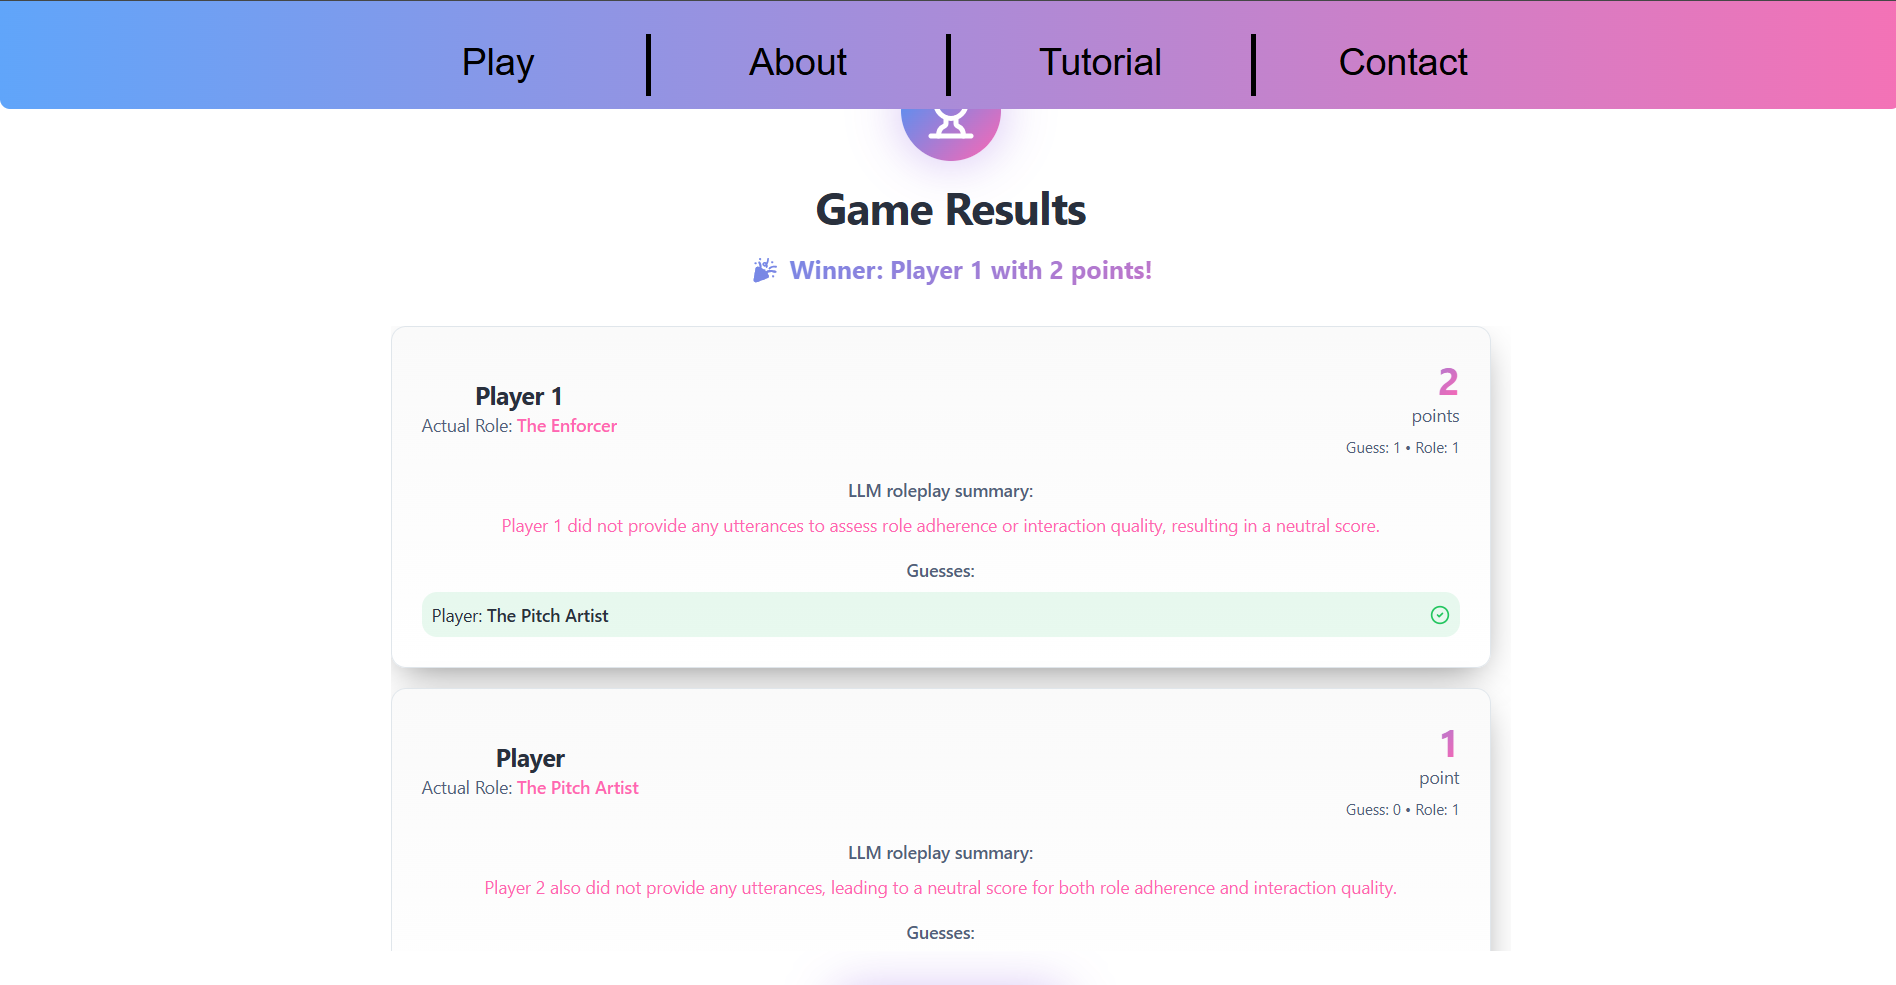
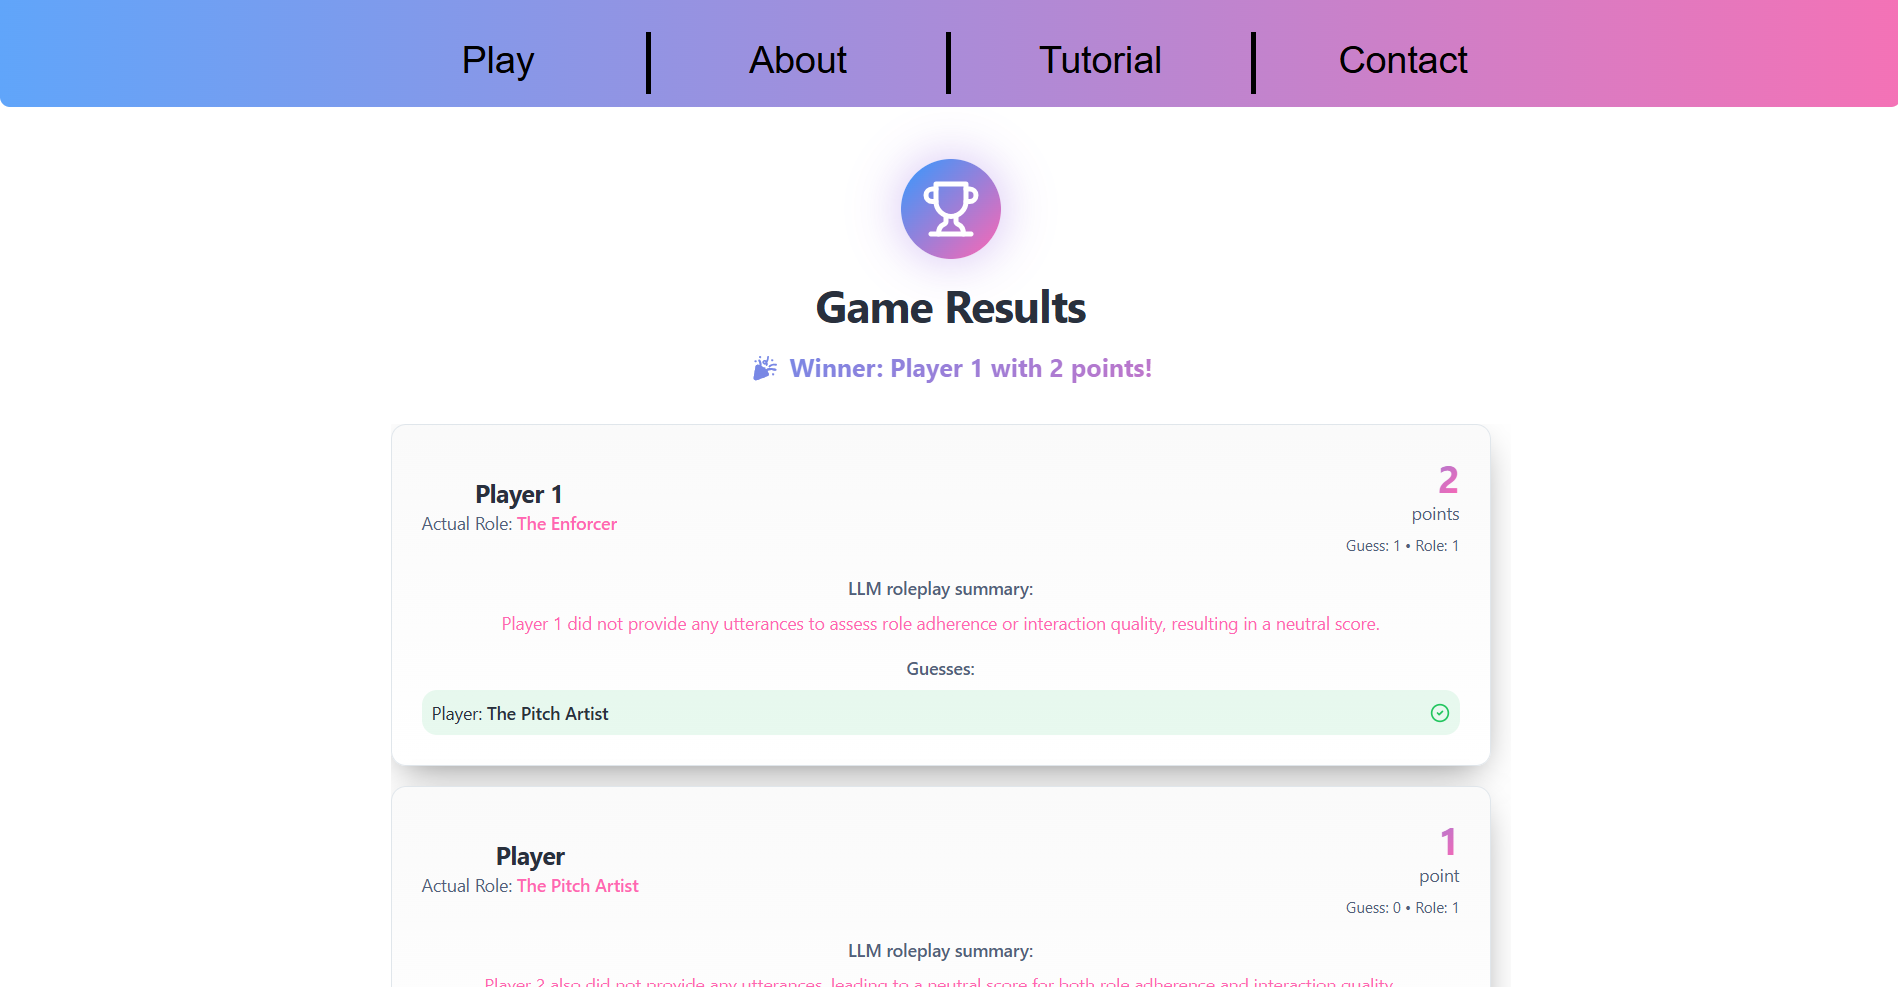
Minor Adjustments and More added images

diff --git a/src/pages/AboutPage.jsx b/src/pages/AboutPage.jsx
@@ -12,6 +12,7 @@ import { FontAwesomeIcon } from "@fortawesome/react-fontawesome";
 import { faChevronDown } from "@fortawesome/free-solid-svg-icons";
 
 import homepageImage from "../images/homepage.png";
+import assetmanagerImage from "../images/assetmanager.png";
 import createlobbyImage from "../images/createlobby.png";
 import hostlobbyImage from "../images/hostlobby.png";
 import lobbysettingsImage from "../images/lobbysettings.png";
@@ -22,6 +23,8 @@ import rolerevealImage from "../images/rolereveal.png";
 import roleplayphaseImage from "../images/roleplayphase.png";
 import roleplayassetsImage from "../images/roleplayassets.png";
 import roleplayinfoImage from "../images/roleplayinfo.png";
+import roleguessImage from "../images/roleguess.png";
+import resultsImage from "../images/finalresults.png";
 
 export default function About() {
       const [selectedRole, setSelectedRole] = useState({
@@ -526,6 +529,8 @@ export default function About() {
                               {HOW_STEPS[selectedHowStep]}
                           </h2>
 
+                          <h3 style={{ textAlign: "center" }}> Navigation </h3>
+
                           <p className="text-muted-foreground" style={{ marginBottom: "20px" }}>
                               This is the homepage for the web app. Here you are able to easily navigate to all important features and information. At the top of the page, there is a banner
                               that can be used to see supplementaty information and return to this home page if needed:
@@ -545,6 +550,14 @@ export default function About() {
 
                           <img
                               src={homepageImage}
+                              alt="Homepage"
+                              style={{ width: "100%", borderRadius: "10px" }}
+                          />
+
+                          <h3 style={{ textAlign: "center" }}> Asset Manager </h3>
+
+                          <img
+                              src={assetmanagerImage}
                               alt="Homepage"
                               style={{ width: "100%", borderRadius: "10px" }}
                           />
@@ -737,8 +750,6 @@ export default function About() {
                               alt="Homepage"
                               style={{ width: "100%", borderRadius: "10px" }}
                           />
-
-                         
                       </>
                   )}
 
@@ -748,9 +759,21 @@ export default function About() {
                               {HOW_STEPS[selectedHowStep]}
                           </h2>
 
-                          <h3 style={{ textAlign: "center" }}> Role Selection </h3>
+                          <h3 style={{ textAlign: "center" }}> Role Guessing </h3>
 
+                          <img
+                              src={roleguessImage}
+                              alt="Homepage"
+                              style={{ width: "100%", borderRadius: "10px" }}
+                          />
 
+                          <h3 style={{ textAlign: "center" }}> Final Results </h3>
+
+                          <img
+                              src={resultsImage}
+                              alt="Homepage"
+                              style={{ width: "100%", borderRadius: "10px" }}
+                          />
                       </>
                   )}
         </div>
